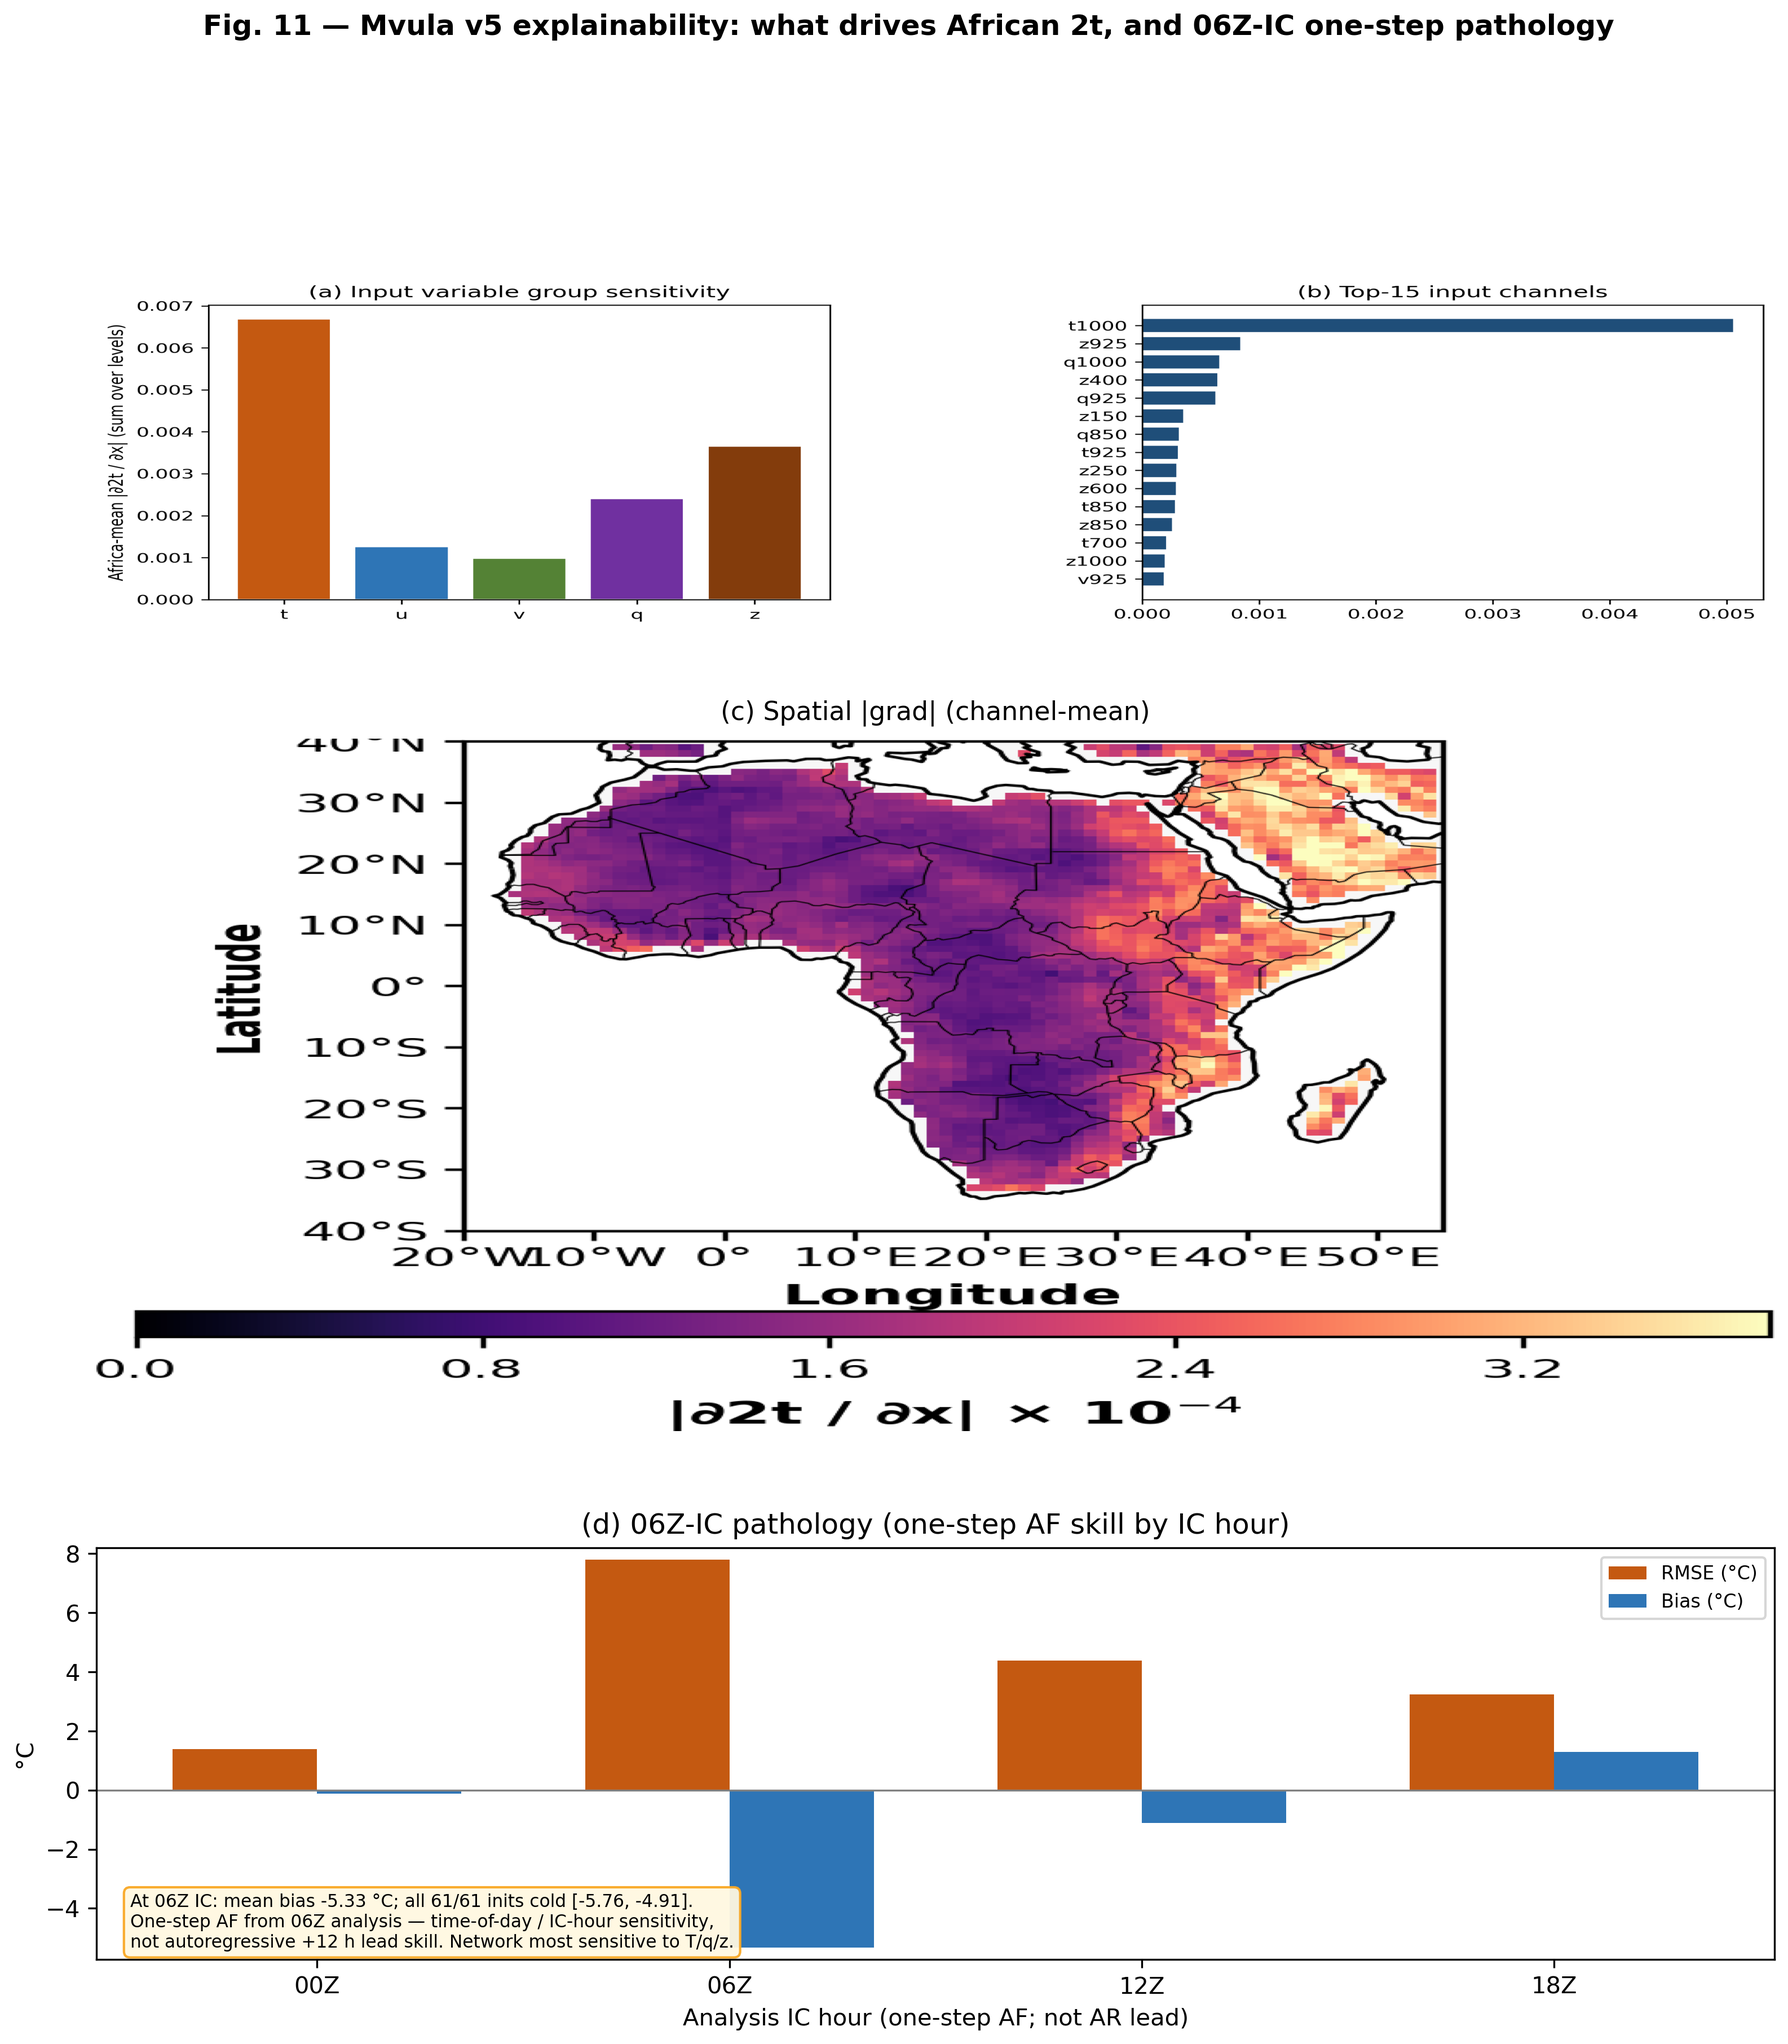
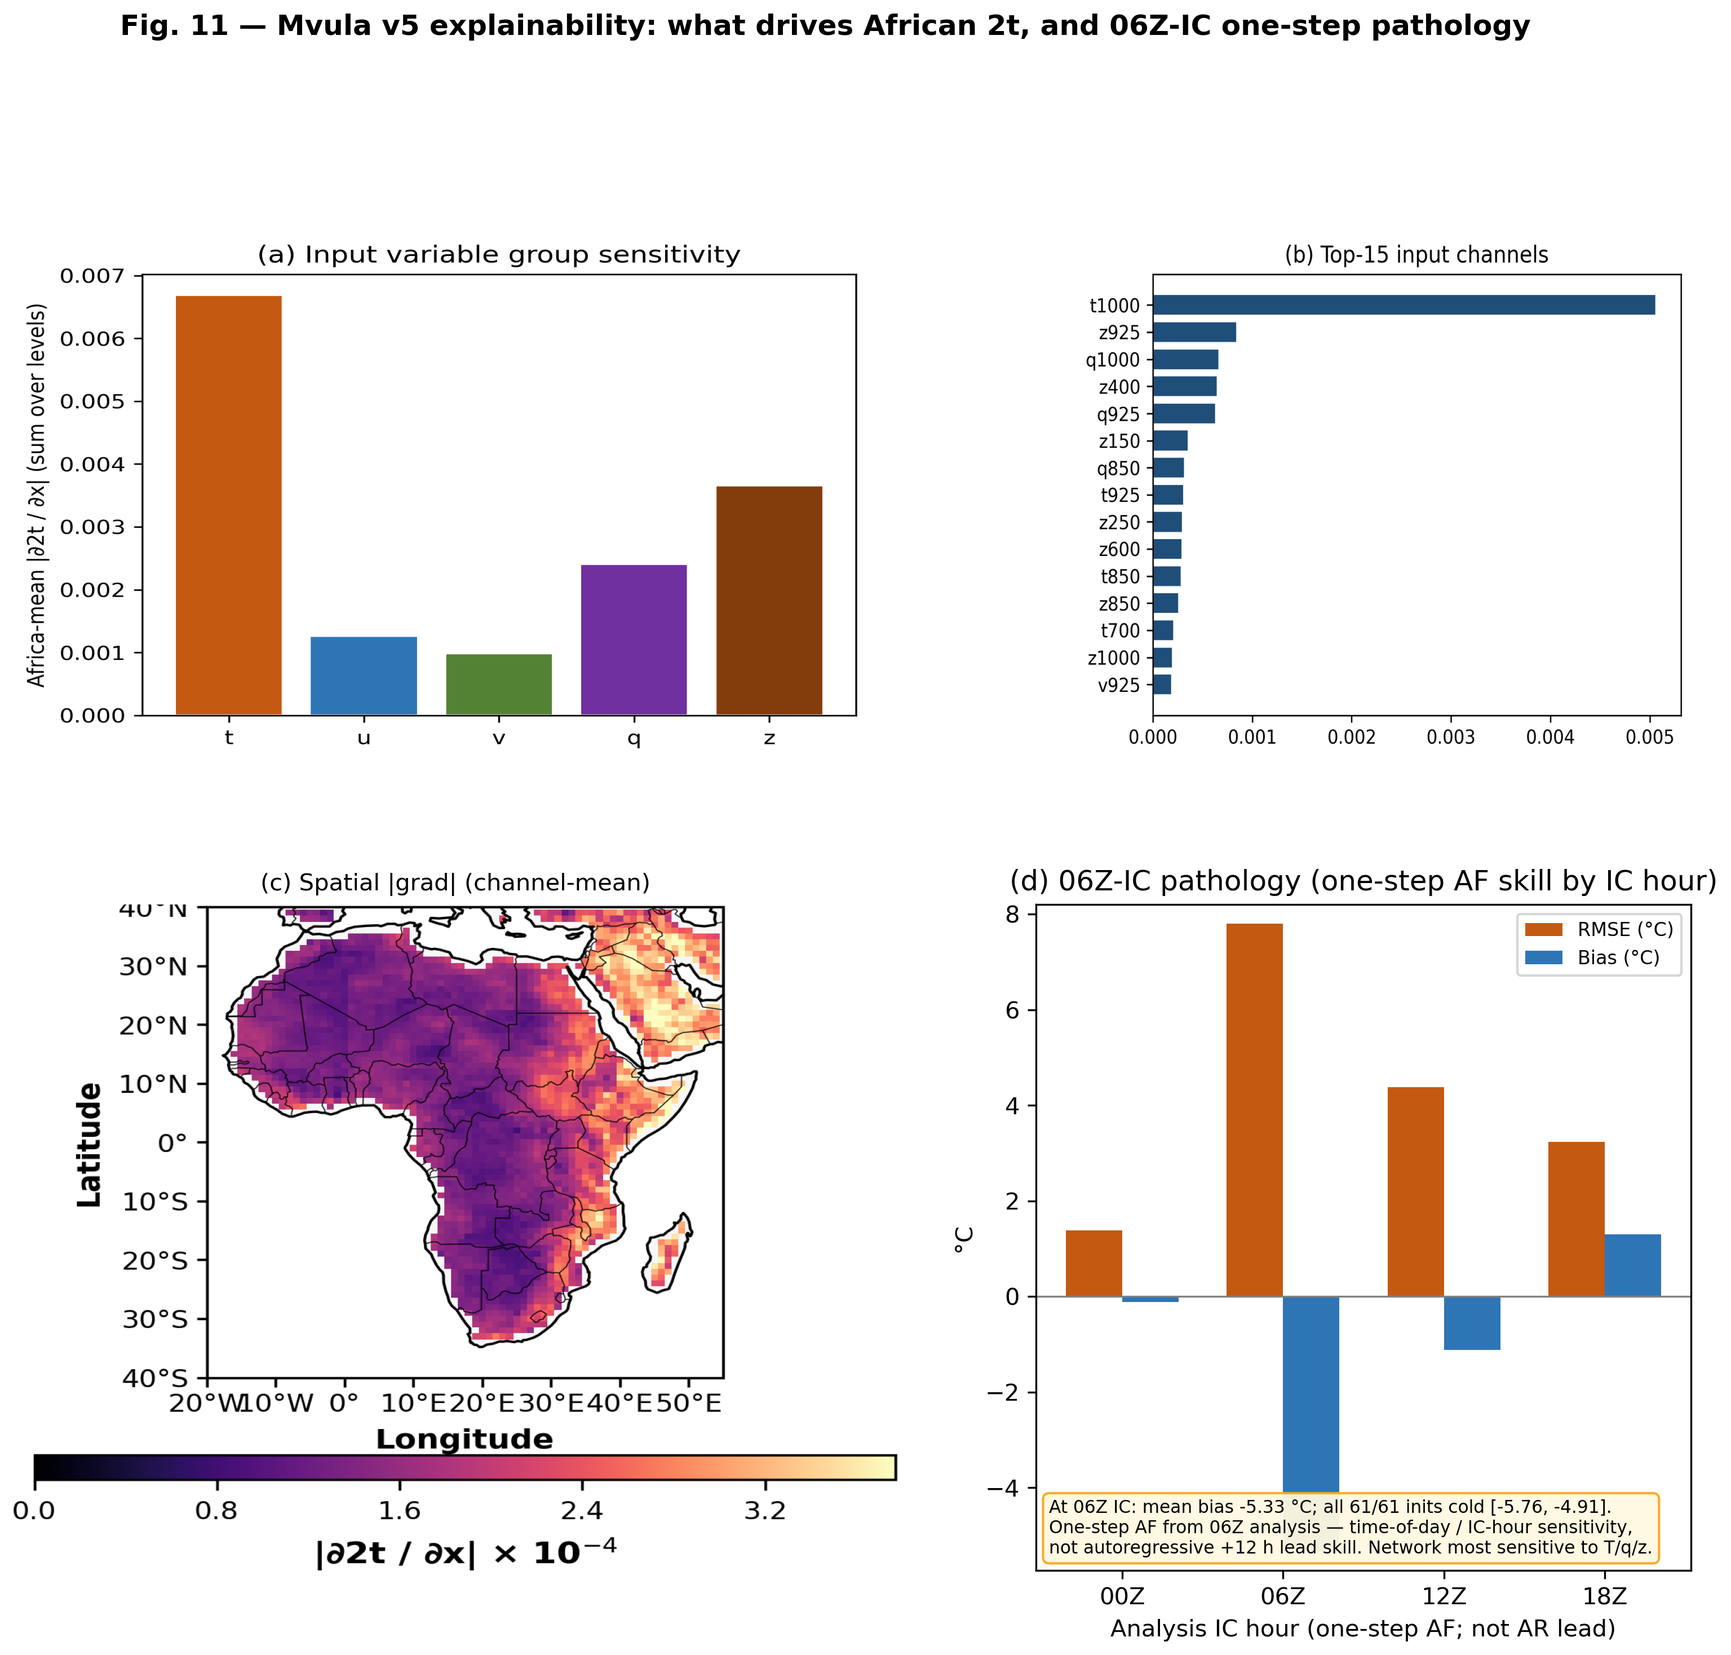
Scale Fig. 11 panel (c) back to a moderate size.
Keep a slight boost over the original 2x2, without the full-width middle-row layout.

diff --git a/scripts/plot_mvula_xai_attribution.py b/scripts/plot_mvula_xai_attribution.py
@@ -194,12 +194,13 @@ def plot_fig11(chan: np.ndarray, spatial: np.ndarray, lat, lon, expanded: dict) 
     # Top-15 channels
     top_idx = np.argsort(chan)[::-1][:15]
 
-    fig = plt.figure(figsize=(12.8, 12.2), dpi=200)
-    # Spatial map (c) gets a full-width middle row so it is not letterboxed
+    fig = plt.figure(figsize=(12.8, 10.4), dpi=200)
+    # Modest boost for spatial panel (c): wider + a bit taller than equal 2×2
     gs = fig.add_gridspec(
-        3,
         2,
-        height_ratios=[1.0, 1.55, 1.15],
+        2,
+        height_ratios=[1.0, 1.25],
+        width_ratios=[1.35, 1.0],
         hspace=0.28,
         wspace=0.22,
     )
@@ -225,13 +226,13 @@ def plot_fig11(chan: np.ndarray, spatial: np.ndarray, lat, lon, expanded: dict) 
     ax1.set_xlabel("|∂2t / ∂x_c| (Africa mean)")
     ax1.set_title("(b) Top-15 input channels")
 
-    # (c) Spatial saliency — full-width row
+    # (c) Spatial saliency
     if HAS_CARTOPY:
         import cartopy.crs as ccrs
 
-        ax2 = fig.add_subplot(gs[1, :], projection=ccrs.PlateCarree())
+        ax2 = fig.add_subplot(gs[1, 0], projection=ccrs.PlateCarree())
     else:
-        ax2 = fig.add_subplot(gs[1, :])
+        ax2 = fig.add_subplot(gs[1, 0])
     sp, lat_af, lon_af = _to_africa_plot_grid(spatial, lat, lon)
     # Scale for a readable colorbar (raw |grad| ~ 1e-4); avoid 0.0000x tick clutter
     grad_scale = 1.0e4
@@ -251,7 +252,7 @@ def plot_fig11(chan: np.ndarray, spatial: np.ndarray, lat, lon, expanded: dict) 
         draw_grid=False,
     )
 
-    ax3 = fig.add_subplot(gs[2, :])
+    ax3 = fig.add_subplot(gs[1, 1])
     _draw_panel_d(ax3, expanded)
 
     fig.suptitle(
@@ -348,12 +349,13 @@ def refresh_fig11_ic_framing() -> None:
         y0 = y0 + int(0.18 * (y1 - y0))  # skip residual title text
         crops["c"] = c[y0:y1, x0:x1]
 
-    fig = plt.figure(figsize=(12.8, 13.0), dpi=200)
+    fig = plt.figure(figsize=(12.8, 10.4), dpi=200)
     gs = fig.add_gridspec(
-        3,
         2,
-        height_ratios=[0.95, 1.85, 1.10],
-        hspace=0.24,
+        2,
+        height_ratios=[1.0, 1.25],
+        width_ratios=[1.35, 1.0],
+        hspace=0.26,
         wspace=0.18,
     )
     ax_a = fig.add_subplot(gs[0, 0])
@@ -362,11 +364,11 @@ def refresh_fig11_ic_framing() -> None:
     ax_b = fig.add_subplot(gs[0, 1])
     ax_b.imshow(crops["b"], aspect="auto")
     ax_b.axis("off")
-    ax_c = fig.add_subplot(gs[1, :])
+    ax_c = fig.add_subplot(gs[1, 0])
     ax_c.imshow(crops["c"], aspect="auto")
-    ax_c.set_title("(c) Spatial |grad| (channel-mean)", fontsize=11, pad=8)
+    ax_c.set_title("(c) Spatial |grad| (channel-mean)", fontsize=10, pad=6)
     ax_c.axis("off")
-    ax3 = fig.add_subplot(gs[2, :])
+    ax3 = fig.add_subplot(gs[1, 1])
     _draw_panel_d(ax3, expanded)
     fig.suptitle(
         "Fig. 11 — Mvula v5 explainability: what drives African 2t, and 06Z-IC one-step pathology",
